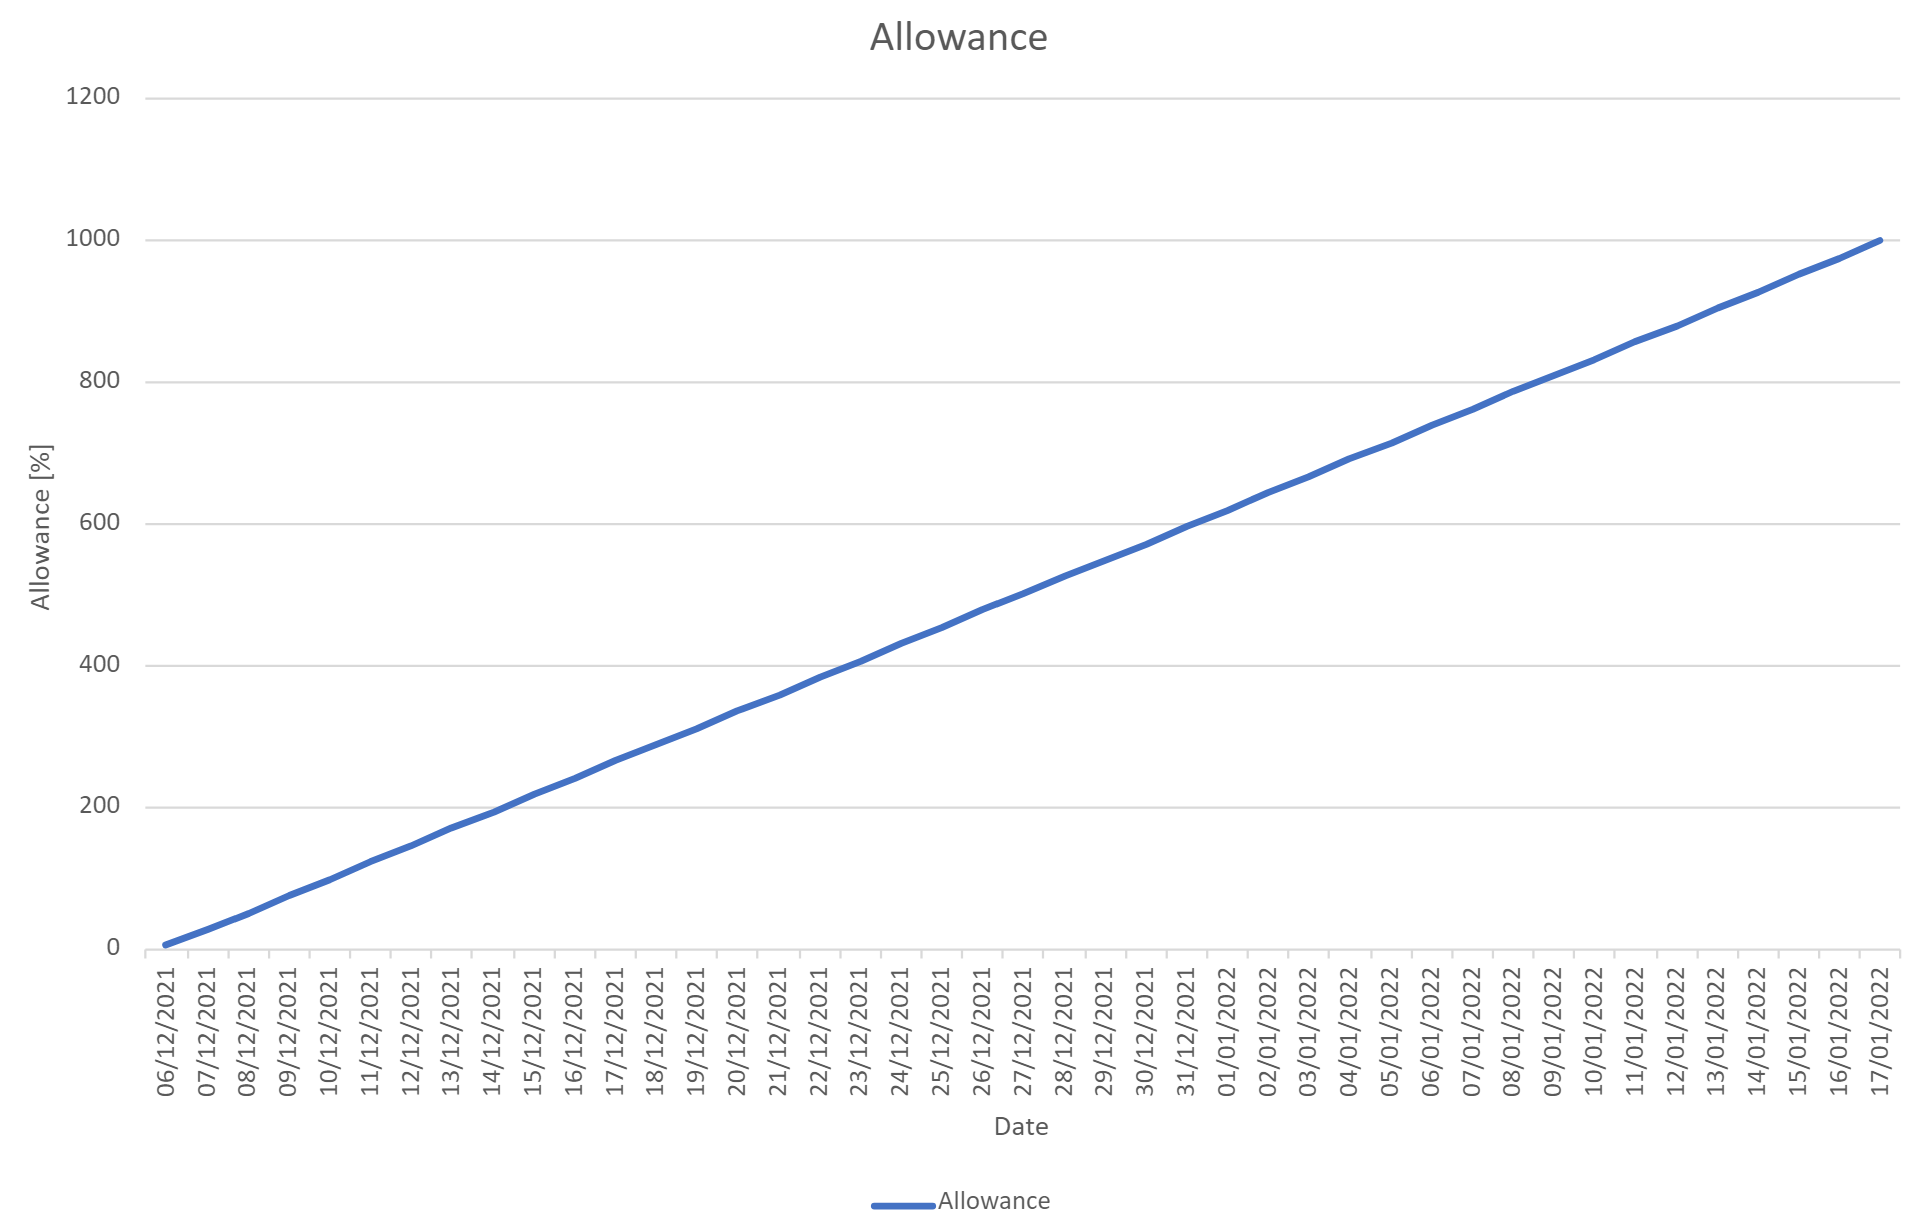
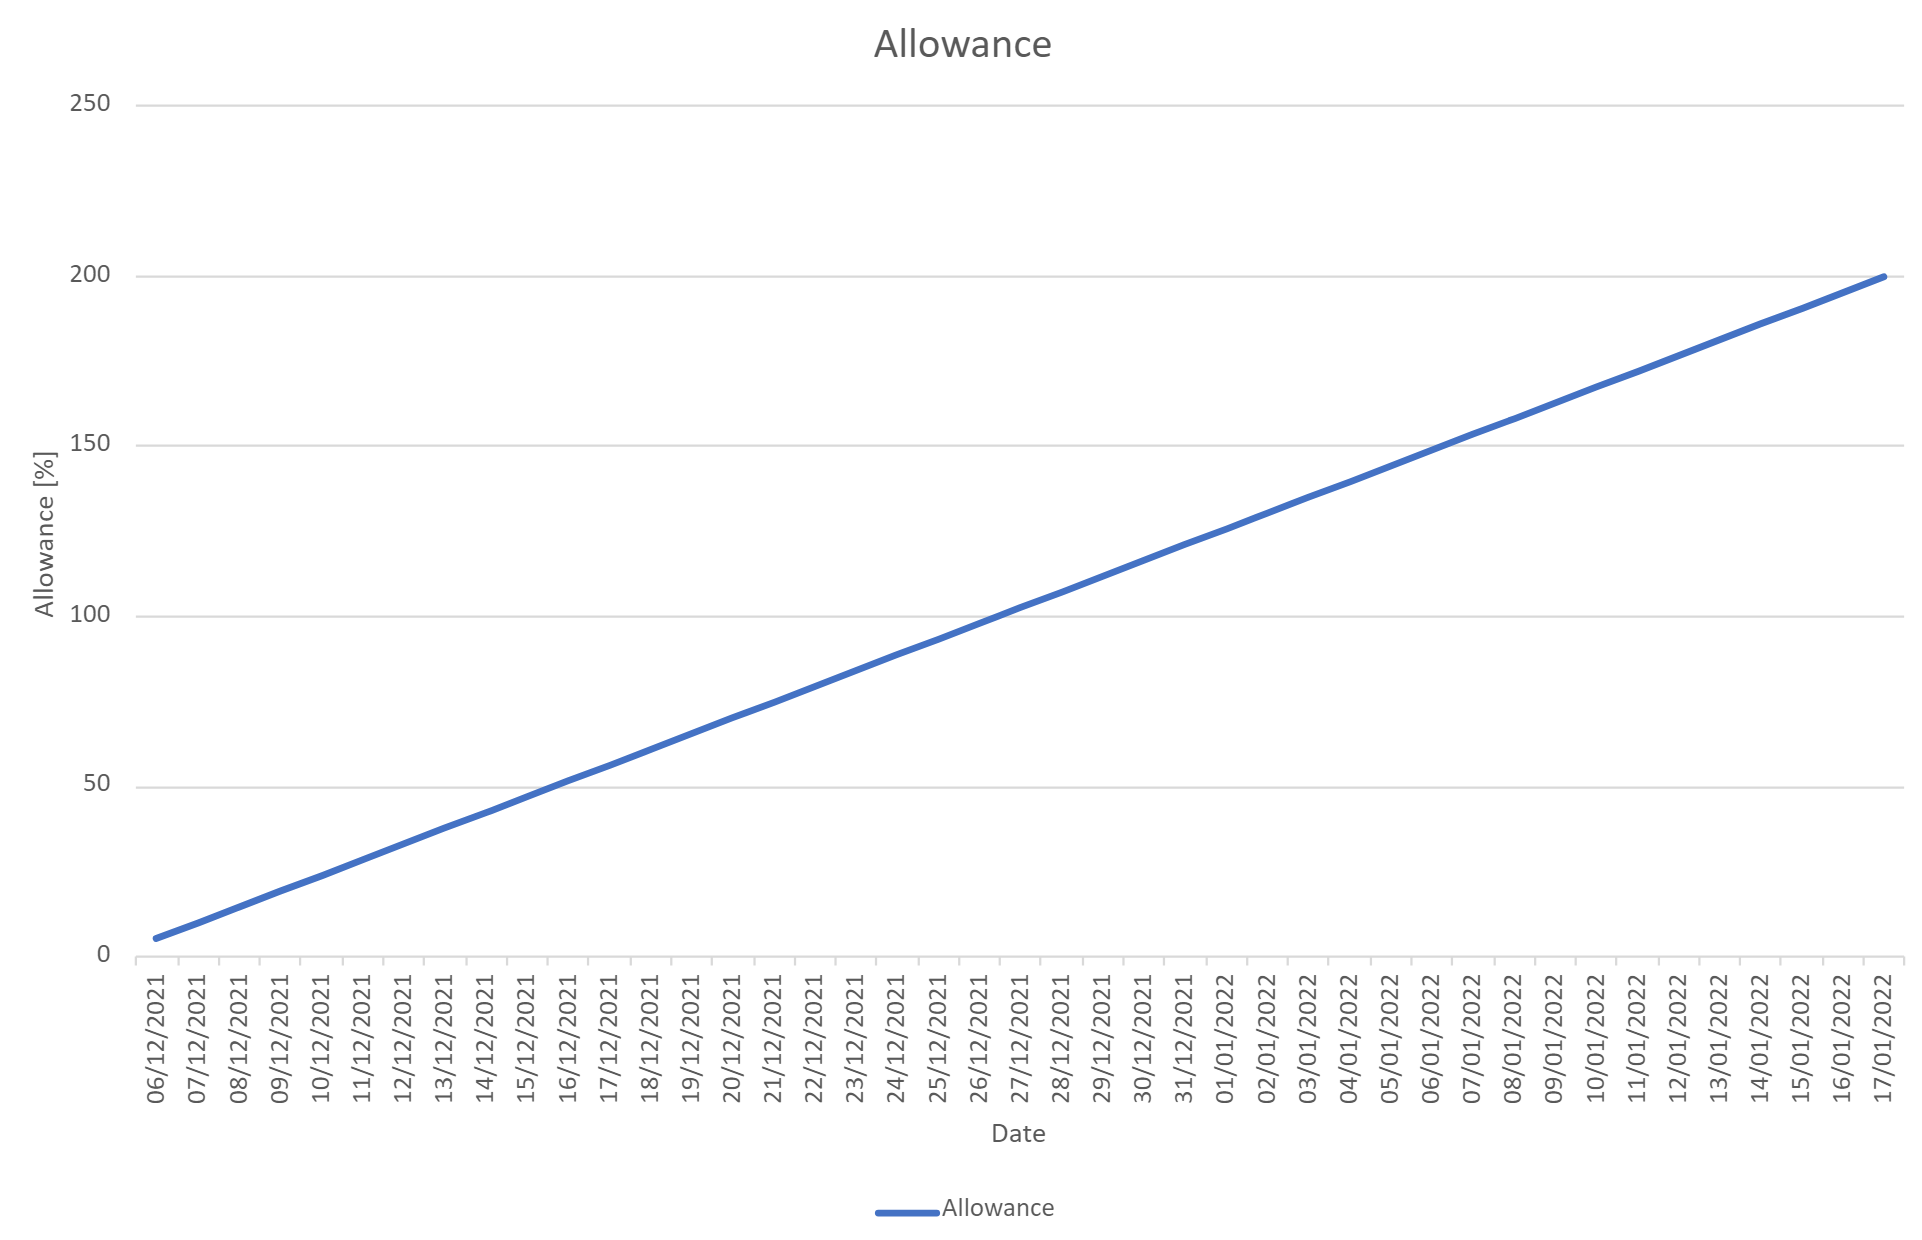
GitBook: [#56] :memo: 2x according to latest MPC meeting.

diff --git a/additional-info/vesting.md b/additional-info/vesting.md
@@ -18,7 +18,7 @@ Considering:
 The Monetary Policy Committee (MPC) had a extraordinary pre-birthday meeting and deliberated the following:
 
 * Presale investors will receive their HUH tokens through an initial vesting period of 6 weeks. The vesting period starts on December 6th 2021 to January 17th 2021 for presale investors.
-* Presale investors will receive 10 times more tokens.
+* Presale investors will receive 2 times more tokens.
 
 The vesting has been added as an important mechanism to safeguard community interests and at the same time strengthen the long term vision with a plethora of technologies at HUH disposal.
 
